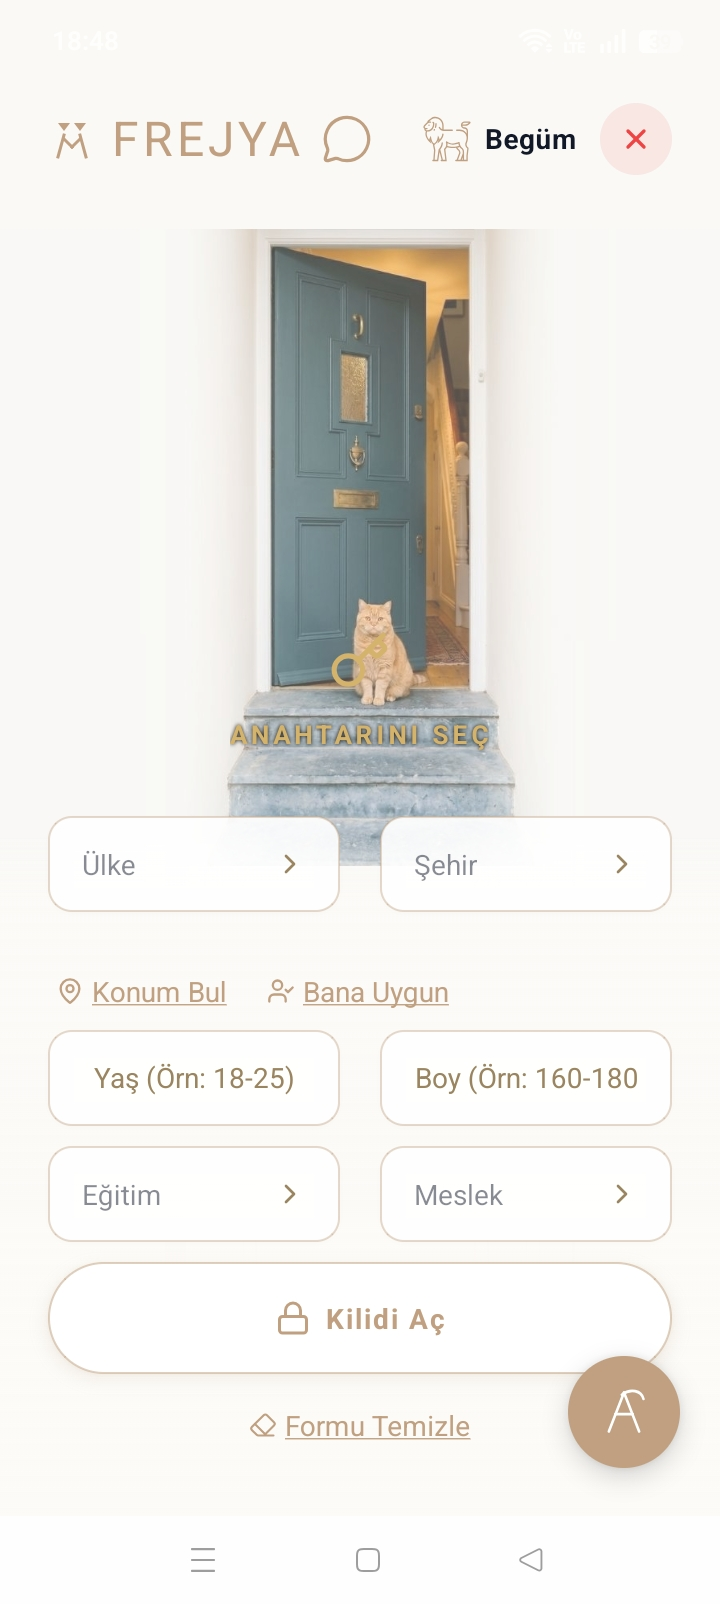
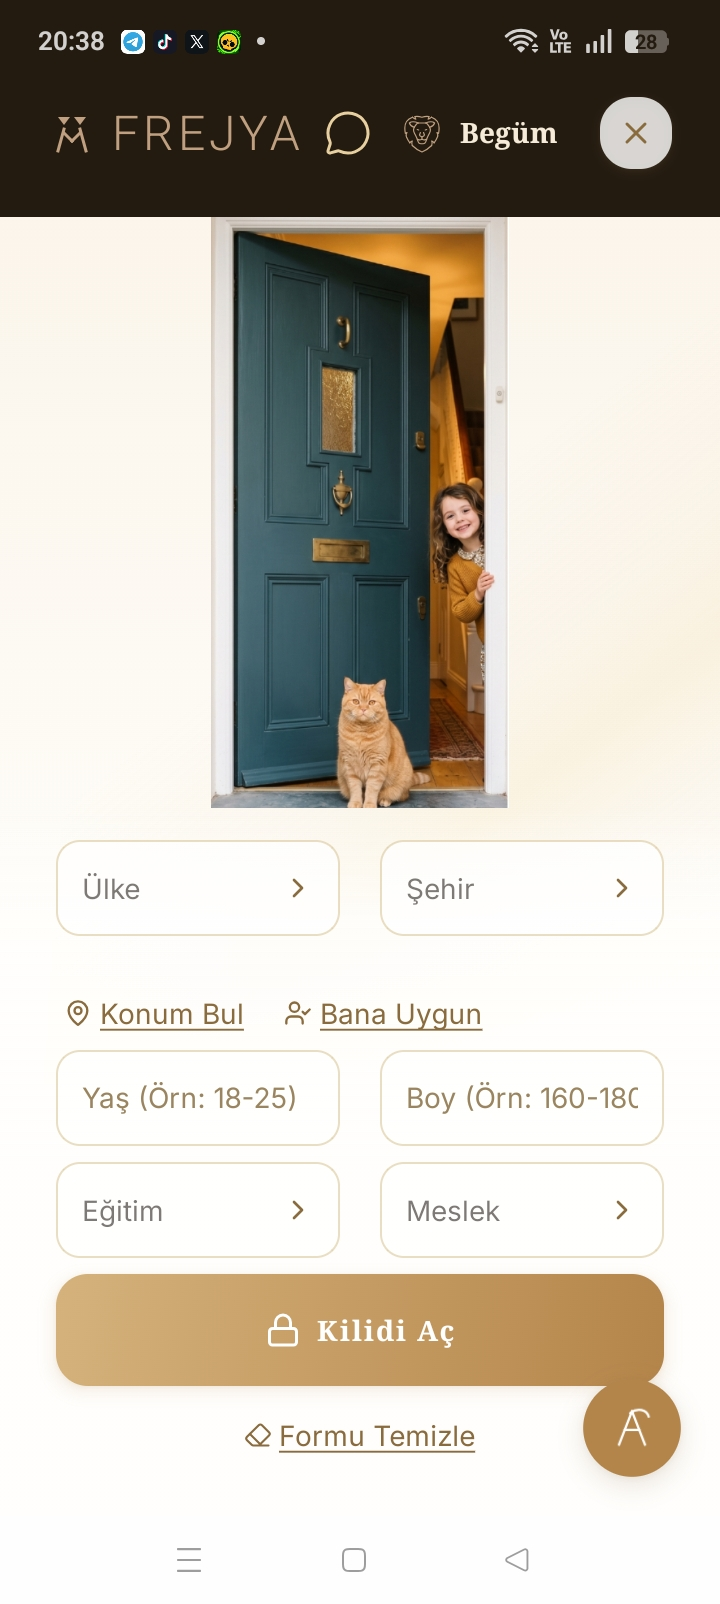
🖼 Site görselleri güncel APK ekranlarıyla yenilendi + ölü görseller temizlendi
- 22 kılavuz + 6 ana sayfa slotu güncel ekran görüntüleriyle değiştirildi
  (tek istisna: uyelik-premium.jpeg — içeriği güncel, yalnız header çubuğu eski)
- Kılavuz "başkasının profili" slotu eski baska-profil-2.jpeg'i çağırıyordu,
  yeni kare baska-profil.jpeg'e yönlendirildi
- Engelle/şikayet slotları gerçek akışa göre yeniden eşlendi:
  destek-sikayet.jpeg (Ayarlar > Destek/Şikayet İlet) + engelle-bildir.jpeg
- s9-l3 metni düzeltildi (TR+EN): uygulamada "Şikayet et" butonu yok;
  profilde "Engelle ve Bildir", sohbet sonunda "Bitir ve engelle",
  kişiye bağlı olmayan sorunlar için Ayarlar > Destek / Şikayet İlet
- Davet kodu ekran görüntüsünde maskelendi
- Hiçbir HTML'in çağırmadığı 21 görsel + screenshots/ (54 PNG) silindi
- Doğrulama: 23 dosya / 23 referans, iki sayfada da kırık görsel yok

diff --git a/nasil-kullanilir.html b/nasil-kullanilir.html
@@ -324,7 +324,7 @@
       <div class="callout" data-i18n="s1-callout"><strong>Yaş kuralı:</strong> Frejya yalnızca 18 yaş ve üzeri içindir. 18 yaşın altındaki kayıtlar otomatik reddedilir.</div>
       <div class="screenshot-inline">
         <div class="phone-mini"><div class="notch"></div><div class="screen">
-          <img src="app-gorseller/giris-kapi.jpeg" alt="Derinlik testi — kayıt sırasındaki psikolojik soru ekranı" loading="lazy" />
+          <img src="app-gorseller/derinlik-testi.jpeg" alt="Derinlik testi — kayıt sırasındaki psikolojik soru ekranı" loading="lazy" />
         </div></div>
       </div>
     </section>
@@ -342,10 +342,10 @@
       <p data-i18n="s2-p2">Profil bilgileri — yaş aralığı tercihi, şehir, meslek, ilgi alanları, beş kelimelik öz tanım — eşleşme algoritmasının kullandığı veridir. Ne kadar dolu doldurursan eşleşme o kadar isabetli olur.</p>
       <div class="screenshot-inline">
         <div class="phone-mini"><div class="notch"></div><div class="screen">
-          <img src="app-gorseller/avatar-sec.jpeg" alt="Profili Düzenle — Karakter testi ve sesli tanıtım kartları" loading="lazy" />
+          <img src="app-gorseller/profil-duzenle.jpeg" alt="Profili Düzenle — profil fotoğrafı, ruhani avatar ve değiştirilemez bilgiler" loading="lazy" />
         </div></div>
         <div class="phone-mini"><div class="notch"></div><div class="screen">
-          <img src="app-gorseller/profilim.jpeg" alt="Ruhani Avatar — 100 avatar arasından seçim" loading="lazy" />
+          <img src="app-gorseller/ruhani-avatar.jpeg" alt="Ruhani Avatar — 100 avatar arasından seçim" loading="lazy" />
         </div></div>
       </div>
     </section>
@@ -363,7 +363,7 @@
       <div class="callout" data-i18n="s3-callout"><strong>Önemli:</strong> Fotoğrafın özel (private) depoda tutulur. Frejya ekibi dışındaki hiç kimse — eşleştiğin kişi dahil — perde açılmadan fotoğrafını göremez.</div>
       <div class="screenshot-inline">
         <div class="phone-mini"><div class="notch"></div><div class="screen">
-          <img src="app-gorseller/karakter-testi.jpeg" alt="Kayıt adımı — Görsel Kimliğiniz: cinsiyet, profil fotoğrafı ve avatar" loading="lazy" />
+          <img src="app-gorseller/gorsel-kimlik.jpeg" alt="Kayıt adımı — Görsel Kimliğiniz: cinsiyet, profil fotoğrafı ve avatar" loading="lazy" />
         </div></div>
       </div>
     </section>
@@ -385,10 +385,10 @@
           <img src="app-gorseller/aura-genel.jpeg" alt="Aura Genel Akış — birden fazla hiyeroglif post, ikon filtreleme çubuğu" loading="lazy" />
         </div></div>
         <div class="phone-mini"><div class="notch"></div><div class="screen">
-          <img src="app-gorseller/aura-genel-sekme.jpeg" alt="Aura yeni paylaşım — 32 kategorilik hiyeroglif ikon klavyesi" loading="lazy" />
+          <img src="app-gorseller/hiyeroglif-klavye.jpeg" alt="Aura yeni paylaşım — 32 kategorilik hiyeroglif ikon klavyesi" loading="lazy" />
         </div></div>
         <div class="phone-mini"><div class="notch"></div><div class="screen">
-          <img src="app-gorseller/aura-takip.jpeg" alt="Aura paylaşım detayı — hiyeroglif ikonlarla sembolik post" loading="lazy" />
+          <img src="app-gorseller/aura-yorum.jpeg" alt="Aura paylaşım detayı — hiyeroglif ikonlarla sembolik post" loading="lazy" />
         </div></div>
       </div>
     </section>
@@ -408,16 +408,16 @@
       <p data-i18n="s5-p3">Sonuçlarda her aday bir profil kartı olarak görünür. Üzerine basıp profilini incelersin; rakam veya yüzde gösterilmez — Frejya bunun yerine paylaşılan somut özellikleri öne çıkarır.</p>
       <div class="screenshot-inline">
         <div class="phone-mini"><div class="notch"></div><div class="screen">
-          <img src="app-gorseller/detayli-arama.jpeg" alt="Detaylı arama formu — Türkiye, İstanbul, yaş, eğitim, meslek filtreleri" loading="lazy" />
+          <img src="app-gorseller/detayli-arama.jpeg" alt="Detaylı Arama formu — ülke, şehir, yaş, boy, eğitim ve meslek filtreleri" loading="lazy" />
         </div></div>
         <div class="phone-mini"><div class="notch"></div><div class="screen">
           <img src="app-gorseller/detayli-arama-2.jpeg" alt="Eşleşme sonucu — 5 vintage anahtarda 5 aday, fotoğraf konuştukça açılır" loading="lazy" />
         </div></div>
         <div class="phone-mini"><div class="notch"></div><div class="screen">
-          <img src="app-gorseller/baska-profil.jpeg" alt="Premium kullanıcıda sayfalama — toplam 25 sonuç (5 sayfa)" loading="lazy" />
+          <img src="app-gorseller/arama-sayfalama.jpeg" alt="Arama sonuçlarında sayfalama — sağa/sola kaydırarak veya kenar oklarıyla geçiş" loading="lazy" />
         </div></div>
         <div class="phone-mini"><div class="notch"></div><div class="screen">
-          <img src="app-gorseller/baska-profil-2.jpeg" alt="Bir adayın profili — Kuşçu, 44 yaş, Terazi, Avukat, sesli tanıtım" loading="lazy" />
+          <img src="app-gorseller/baska-profil.jpeg" alt="Bir adayın profili — hayvan avatarı, yaş/burç/meslek rozetleri ve sesli tanıtım" loading="lazy" />
         </div></div>
       </div>
     </section>
@@ -438,7 +438,7 @@
           <img src="app-gorseller/zil-cal-mesaj.jpeg" alt="Kapıyı Çal modal — 150 karakterlik ilk mesaj ile zili çalmak" loading="lazy" />
         </div></div>
         <div class="phone-mini"><div class="notch"></div><div class="screen">
-          <img src="app-gorseller/sohbetler-zil.jpeg" alt="Sohbetler Kapı sekmesi — gelen zil Onay / Red / Sil" loading="lazy" />
+          <img src="app-gorseller/sohbetler-kapi.jpeg" alt="Sohbetler Kapı sekmesi — gelen zil Onay / Red / Sil" loading="lazy" />
         </div></div>
       </div>
     </section>
@@ -483,7 +483,7 @@
       <p data-i18n="s8-p2">Perde tam açıldığında mikrofon ikonu aktifleşir. Sesli mesajlar da metin mesajları gibi uçtan uca şifrelenir.</p>
       <div class="screenshot-inline">
         <div class="phone-mini"><div class="notch"></div><div class="screen">
-          <img src="app-gorseller/mesajlasma-ses.jpeg" alt="Sesli tanıtım kayıt — ses kimliği seçimi (Doğal, Çekici, Neşeli, Zarif, Buğulu)" loading="lazy" />
+          <img src="app-gorseller/mesajlasma-ses.jpeg" alt="Sesli tanıtım kaydı — cinsiyete göre 5 ses stilinden biri seçilir" loading="lazy" />
         </div></div>
       </div>
       <div class="callout" data-i18n="s8-callout"><strong>Süre sınırı:</strong> Sesli mesajlar gönderildikten <strong>15 gün</strong> sonra otomatik olarak silinir; sohbet penceresinde "Sesli mesajın süresi doldu" yazısı görünür. Süresi dolmuş bir sesli mesaja tıklarsan kısa bir uyarı çıkar. Bu kural mahremiyetin için: ses kaydın gereğinden uzun saklanmaz.</div>
@@ -495,16 +495,16 @@
       <ul>
         <li data-i18n="s9-l1"><strong>Uçtan uca şifreleme:</strong> Mesajların yalnızca seninle karşı tarafın görür. Sunucu okuyamaz.</li>
         <li data-i18n="s9-l2"><strong>AI fotoğraf moderasyonu:</strong> Her yüklenen fotoğraf yapay zekâ ile denetlenir — sahte profil, çıplaklık, çocuk fotoğrafı, ünlü fotoğrafı ve uygunsuz içerik filtrelenir.</li>
-        <li data-i18n="s9-l3"><strong>Şikayet ve engelleme:</strong> Her profil kartında ve her sohbet ekranında koruma var: <strong>"Şikayet et"</strong> (kişiyi kalıcı engeller) ve sohbeti bitirirken <strong>"Engelle"</strong> seçeneği. Engellediğin kişiyle bir daha karşılaşmazsın.</li>
+        <li data-i18n="s9-l3"><strong>Şikayet ve engelleme:</strong> Bir profilin sağ üstündeki uyarı işareti <strong>"Engelle ve Bildir"</strong> diyaloğunu açar — kişiyi hem kalıcı engeller hem moderasyona bildirir. Sohbeti bitirirken de <strong>"Bitir ve engelle"</strong> seçeneği vardır. Engellediğin kişi seni aramada, akışta ve bildirimlerde bir daha göremez. Kişiye bağlı olmayan sorunlar için Ayarlar &rsaquo; <strong>Destek / Şikayet İlet</strong> formunu kullanırsın.</li>
         <li data-i18n="s9-l4"><strong>Konum gizliliği:</strong> Frejya konum izni ister ama yalnız il/ilçe bilgini saklar; koordinatın kaydedilmez. Bu bilgi yalnız eşleşme için kullanılır.</li>
         <li data-i18n="s9-l6"><strong>Biyometrik veri cihazında kalır:</strong> Parmak izin veya yüz verin asla Frejya sunucusuna gönderilmez; doğrulama tamamen telefonunun güvenli donanımında yapılır. Çıkış, ban veya şifre değişiminde cihazdaki giriş anahtarı silinir.</li>
       </ul>
       <div class="screenshot-inline">
         <div class="phone-mini"><div class="notch"></div><div class="screen">
-          <img src="app-gorseller/engelle.jpeg" alt="Şikayet et — kullanıcıyı moderatörlere bildirme onay diyaloğu" loading="lazy" />
+          <img src="app-gorseller/destek-sikayet.jpeg" alt="Destek / Şikayet İlet — en fazla 150 kelimelik sorun bildirimi formu" loading="lazy" />
         </div></div>
         <div class="phone-mini"><div class="notch"></div><div class="screen">
-          <img src="app-gorseller/sikayet.jpeg" alt="Engelle — kullanıcıyı kalıcı engelleme onay diyaloğu" loading="lazy" />
+          <img src="app-gorseller/engelle-bildir.jpeg" alt="Engelle ve Bildir — engellenen kullanıcı uygulamandan tamamen gizlenir" loading="lazy" />
         </div></div>
       </div>
     </section>
@@ -532,10 +532,10 @@
       <p style="font-size: 13px; color: #888;" data-i18n="s10-footnote">*Onaylı: E-postanı doğrula (uygulama içinden 6 haneli kod) veya Google/Apple ile giriş yap → otomatik Onaylı olursun. Telefon (SMS) doğrulaması yakında.</p>
       <div class="screenshot-inline">
         <div class="phone-mini"><div class="notch"></div><div class="screen">
-          <img src="app-gorseller/uyelik-tipleri.jpeg" alt="Üyelik ekranı — Premium hero kart ve 3 kademe (Normal/Onaylı/Premium)" loading="lazy" />
+          <img src="app-gorseller/uyelik-tipleri.jpeg" alt="Üyeliğim ekranı — şu anki kademen ve üç üyelik kademesi (Normal / Onaylı / Premium)" loading="lazy" />
         </div></div>
         <div class="phone-mini"><div class="notch"></div><div class="screen">
-          <img src="app-gorseller/uyelik-premium.jpeg" alt="Profil ekranı — altın 'Üyeliğim' kartı (Premium aktif)" loading="lazy" />
+          <img src="app-gorseller/uyelik-premium.jpeg" alt="Üyeliğim ekranı — Premium kademesi kartı; satın alma yakında, şu an davetle kazanılıyor" loading="lazy" />
         </div></div>
       </div>
     </section>
@@ -552,7 +552,7 @@
       </ul>
       <div class="screenshot-inline">
         <div class="phone-mini"><div class="notch"></div><div class="screen">
-          <img src="app-gorseller/profilim-2.jpeg" alt="Profil ekranı — Arkadaşınızı Davet Et kartı ve davet kodu paylaşma butonu" loading="lazy" />
+          <img src="app-gorseller/profilim-2.jpeg" alt="Profilim ekranı — Üyeliğim kartı, Arkadaşınızı Davet Et kartı ve davet kodu paylaşma butonu" loading="lazy" />
         </div></div>
       </div>
     </section>
@@ -570,7 +570,7 @@
       <p><span data-i18n="s12-p2">Verilerinin kullanımı hakkında detayları</span> <a id="link-privacy" href="https://mujdattelli.github.io/frejya-legal/privacy.tr.html" data-i18n="link-privacy">Gizlilik Politikası</a><span data-i18n="s12-p3">nda bulabilirsin.</span></p>
       <div class="screenshot-inline">
         <div class="phone-mini"><div class="notch"></div><div class="screen">
-          <img src="app-gorseller/cikis-alert.jpeg" alt="Profilim — Sesli tanıtım, Sözleşme/Gizlilik linkleri ve Hesabımı sil butonu" loading="lazy" />
+          <img src="app-gorseller/cikis-alert.jpeg" alt="Ayarlar alt kısmı — Engellenenler, Dil, Destek/Şikayet İlet, Çıkış Yap ve hesabı silme" loading="lazy" />
         </div></div>
       </div>
     </section>
@@ -787,7 +787,7 @@
     's9-sub': { tr: 'E2EE · AI moderasyon · Engelle/şikayet', en: 'E2EE · AI moderation · Block/report' },
     's9-l1': { tr: '<strong>Uçtan uca şifreleme:</strong> Mesajların yalnızca seninle karşı tarafın görür. Sunucu okuyamaz.', en: '<strong>End-to-end encryption:</strong> Only you and your match can read your messages. The server cannot.' },
     's9-l2': { tr: '<strong>AI fotoğraf moderasyonu:</strong> Her yüklenen fotoğraf yapay zekâ ile denetlenir — sahte profil, çıplaklık, çocuk fotoğrafı, ünlü fotoğrafı ve uygunsuz içerik filtrelenir.', en: '<strong>AI photo moderation:</strong> Every uploaded photo is reviewed by AI — fake profiles, nudity, child photos, celebrity photos and inappropriate content are filtered out.' },
-    's9-l3': { tr: '<strong>Şikayet ve engelleme:</strong> Her profil kartında ve her sohbet ekranında koruma var: <strong>"Şikayet et"</strong> (kişiyi kalıcı engeller) ve sohbeti bitirirken <strong>"Engelle"</strong> seçeneği. Engellediğin kişiyle bir daha karşılaşmazsın.', en: '<strong>Report and block:</strong> Every profile card and chat screen has protection: <strong>"Report"</strong> (permanently blocks the person) and an <strong>"End &amp; block"</strong> option when you end a chat. You\'ll never run into someone you\'ve blocked again.' },
+    's9-l3': { tr: '<strong>Şikayet ve engelleme:</strong> Bir profilin sağ üstündeki uyarı işareti <strong>"Engelle ve Bildir"</strong> diyaloğunu açar — kişiyi hem kalıcı engeller hem moderasyona bildirir. Sohbeti bitirirken de <strong>"Bitir ve engelle"</strong> seçeneği vardır. Engellediğin kişi seni aramada, akışta ve bildirimlerde bir daha göremez. Kişiye bağlı olmayan sorunlar için Ayarlar &rsaquo; <strong>Destek / Şikayet İlet</strong> formunu kullanırsın.', en: '<strong>Report and block:</strong> The warning icon at the top right of a profile opens the <strong>"Block and Report"</strong> dialog — it both blocks the person permanently and reports them to moderation. Ending a chat also offers <strong>"End &amp; block"</strong>. Someone you block can no longer see you in search, the feed or notifications. For issues not tied to a person, use Settings &rsaquo; <strong>Support / Report</strong>.' },
     's9-l4': { tr: '<strong>Konum gizliliği:</strong> Frejya konum izni ister ama yalnız il/ilçe bilgini saklar; koordinatın kaydedilmez. Bu bilgi yalnız eşleşme için kullanılır.', en: '<strong>Location privacy:</strong> Frejya requests location permission but stores only your city/district; your coordinates are never saved. This information is used solely for matching.' },
     's9-l6': { tr: "<strong>Biyometrik veri cihazında kalır:</strong> Parmak izin veya yüz verin asla Frejya sunucusuna gönderilmez; doğrulama tamamen telefonunun güvenli donanımında yapılır. Çıkış, ban veya şifre değişiminde cihazdaki giriş anahtarı silinir.", en: "<strong>Biometric data stays on your device:</strong> Your fingerprint or face data is never sent to Frejya's servers; verification happens entirely in your phone's secure hardware. The on-device login key is wiped on logout, ban or password change." },
 
